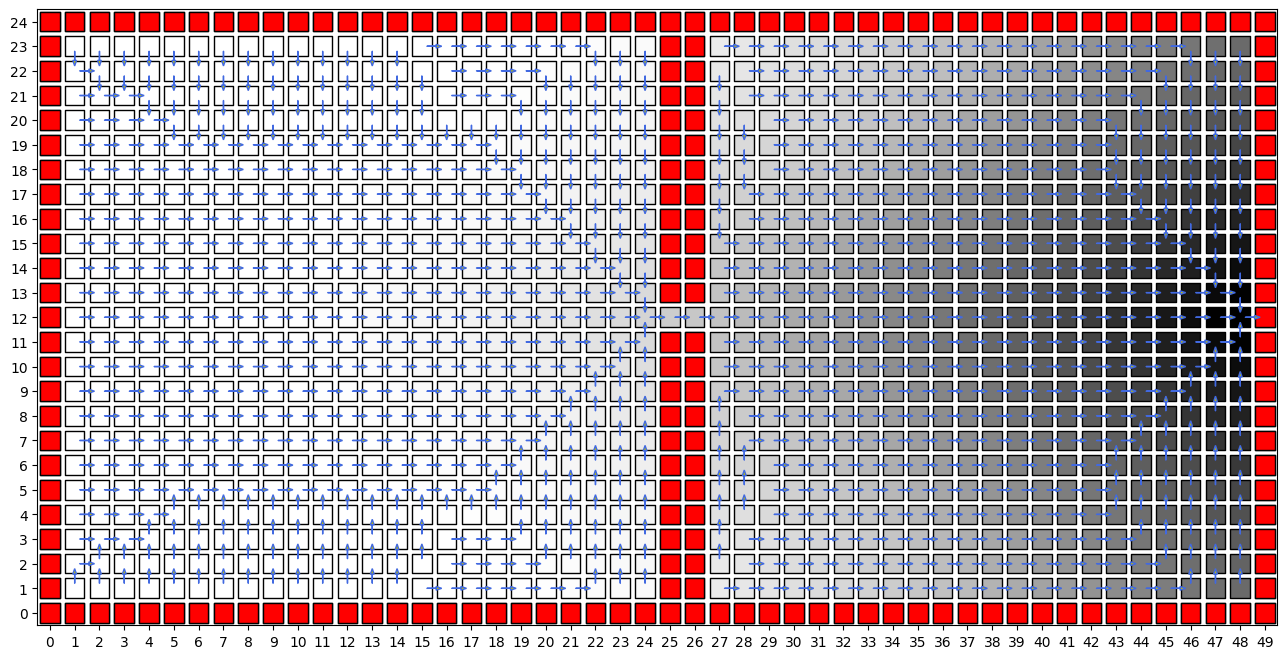
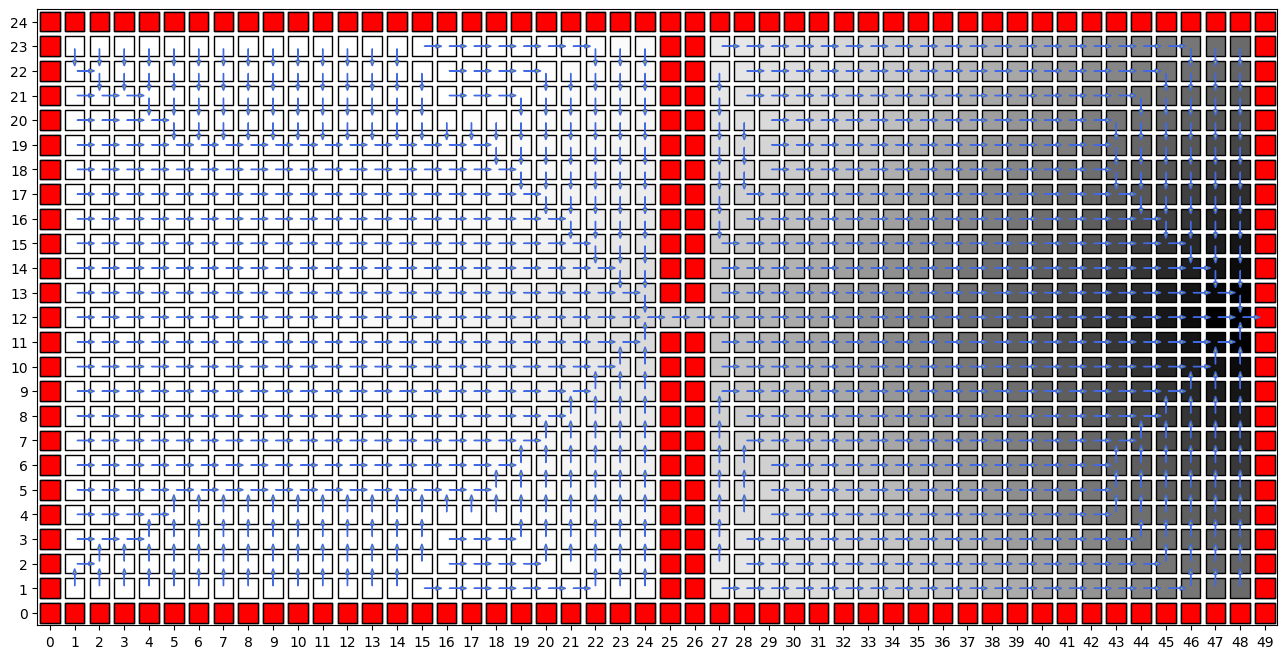
some minor changes

diff --git a/Q1/B/b.py b/Q1/B/b.py
@@ -510,13 +510,13 @@ while iterations < 100 and delta > theta:
             
         def arrow_coordinates(i, j, action):
             if action == 'Up':
-                return i, j + 0.2, 0, 0.6
+                return i, j + 0.1, 0, 0.7
             elif action == 'Down':
-                return i, j - 0.2, 0, -0.6
+                return i, j - 0.1, 0, -0.7
             elif action == 'Left':
-                return i - 0.2, j, -0.6, 0
+                return i - 0.1, j, -0.7, 0
             elif action == 'Right':
-                return i + 0.2, j, 0.6, 0
+                return i + 0.1, j, 0.7, 0
 
         all_arrows = []
         for i in range(50):

diff --git a/Q2/B/b.py b/Q2/B/b.py
@@ -164,13 +164,13 @@ scat2 = plt.scatter([x[0] for x in all_walls], [x[1] for x in all_walls], s=200,
 
 def arrow_coordinates(i, j, action):
     if action == 'Up':
-        return i, j + 0.2, 0, 0.6
+        return i, j + 0.1, 0, 0.7
     elif action == 'Down':
-        return i, j - 0.2, 0, -0.6
+        return i, j - 0.1, 0, -0.7
     elif action == 'Left':
-        return i - 0.2, j, -0.6, 0
+        return i - 0.1, j, -0.7, 0
     elif action == 'Right':
-        return i + 0.2, j, 0.6, 0
+        return i + 0.1, j, 0.7, 0
 
 all_arrows = []
 for i in range(50):
